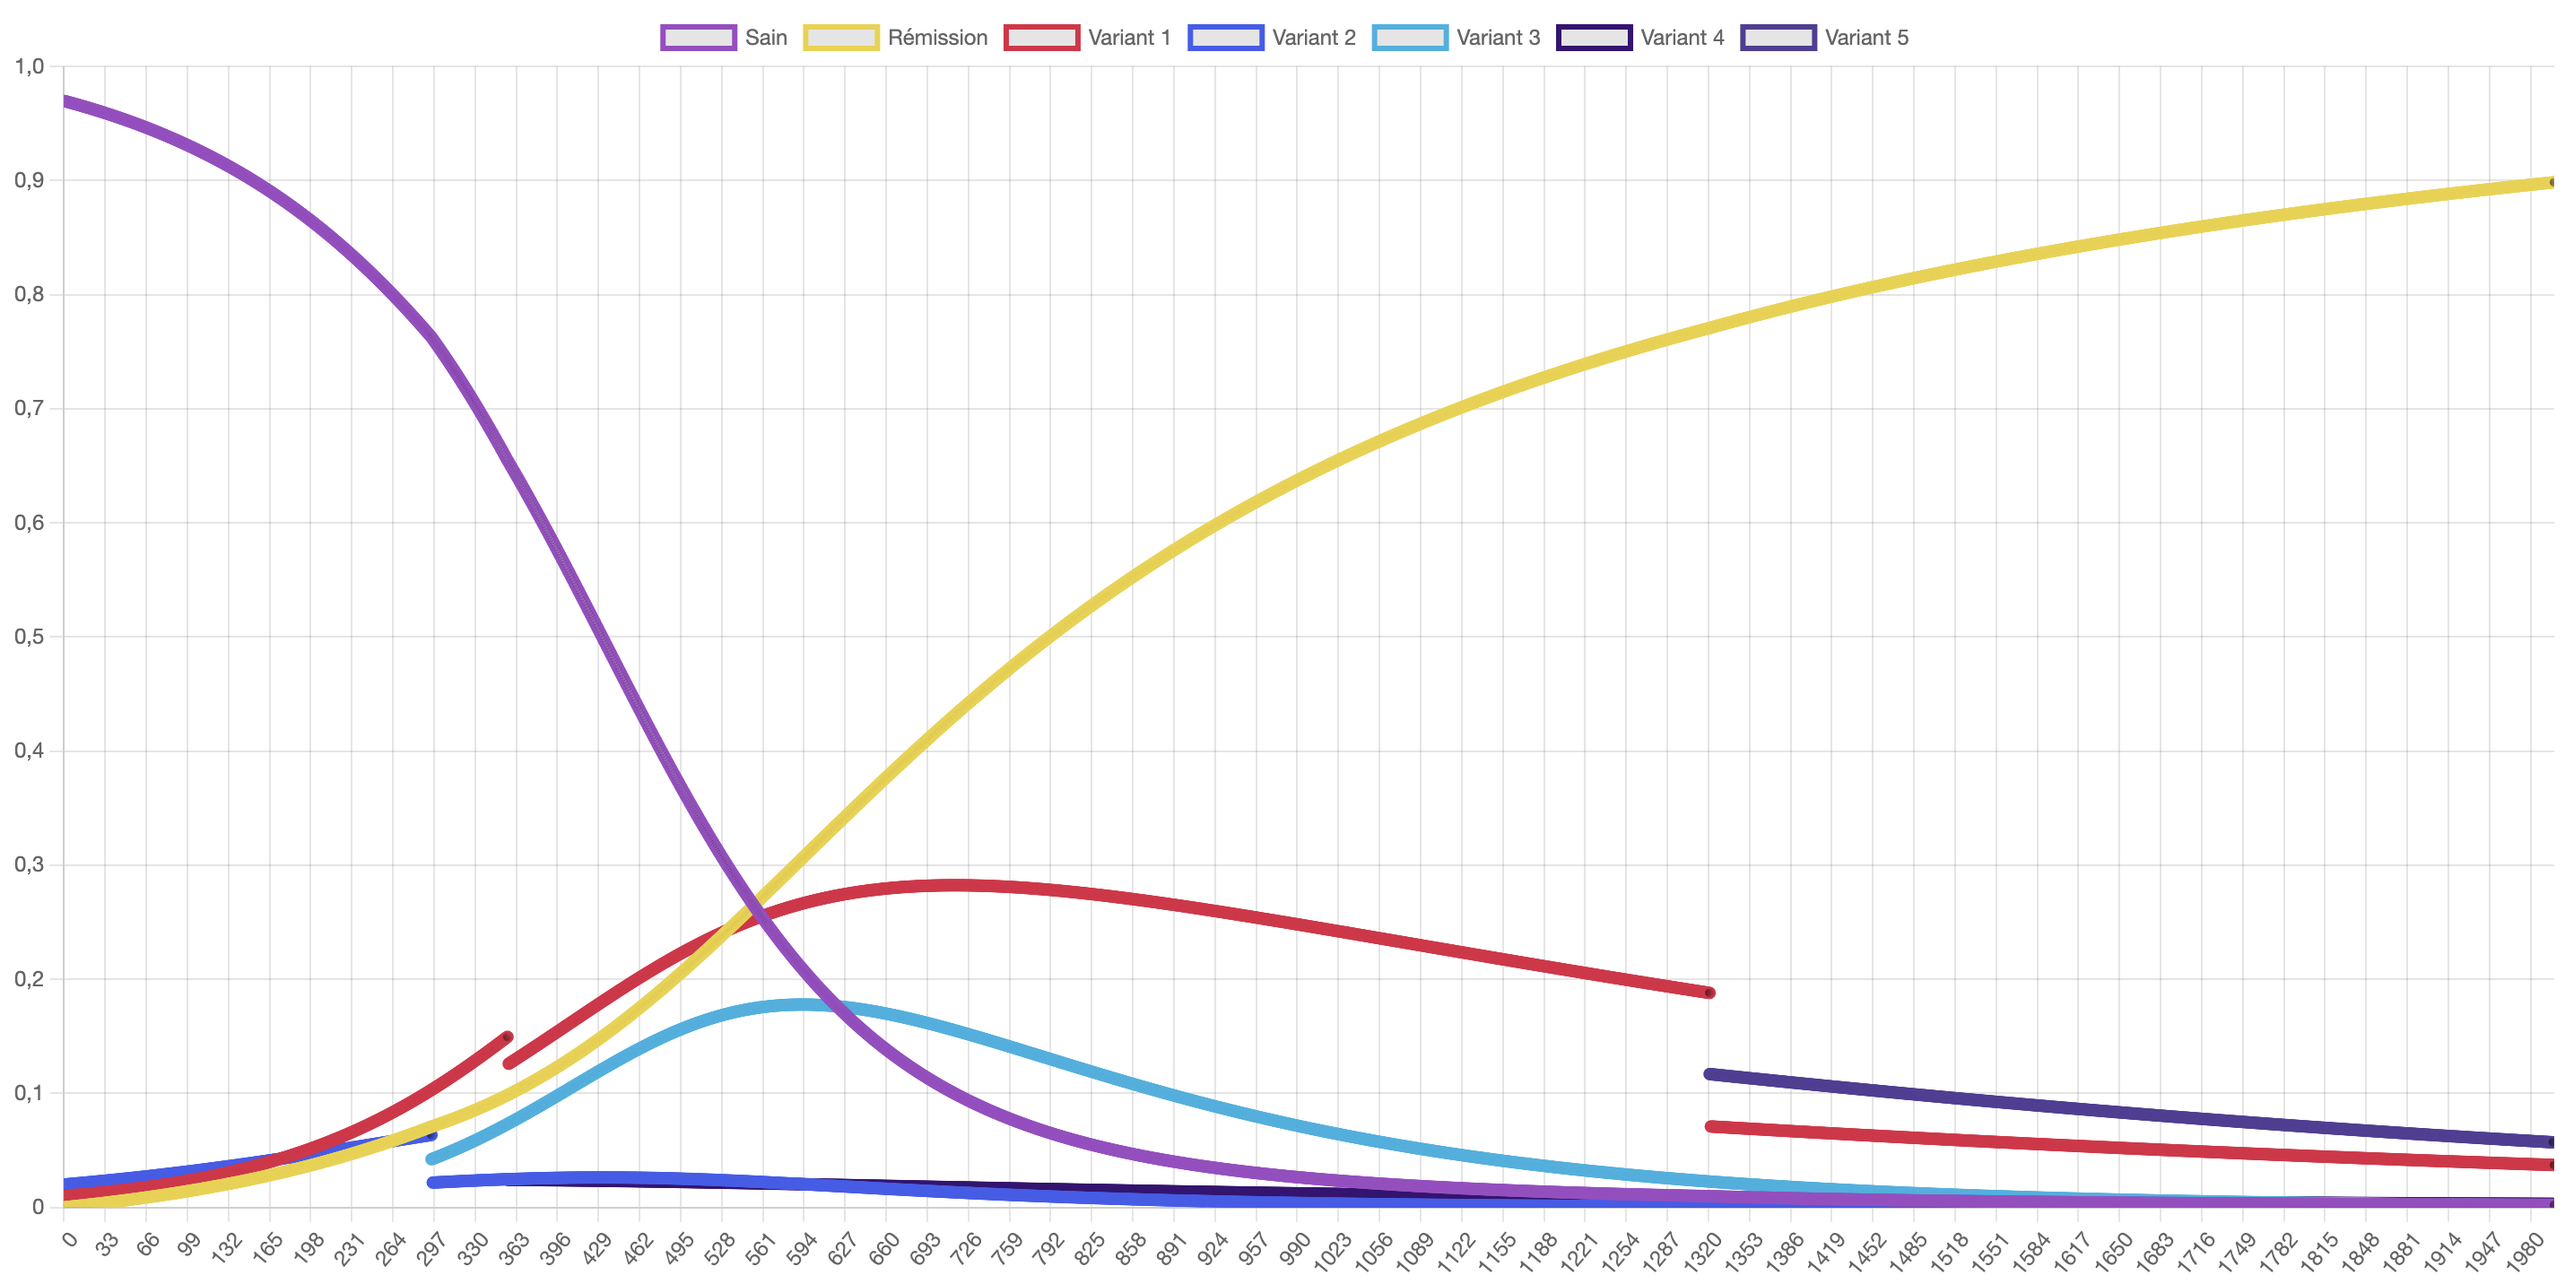
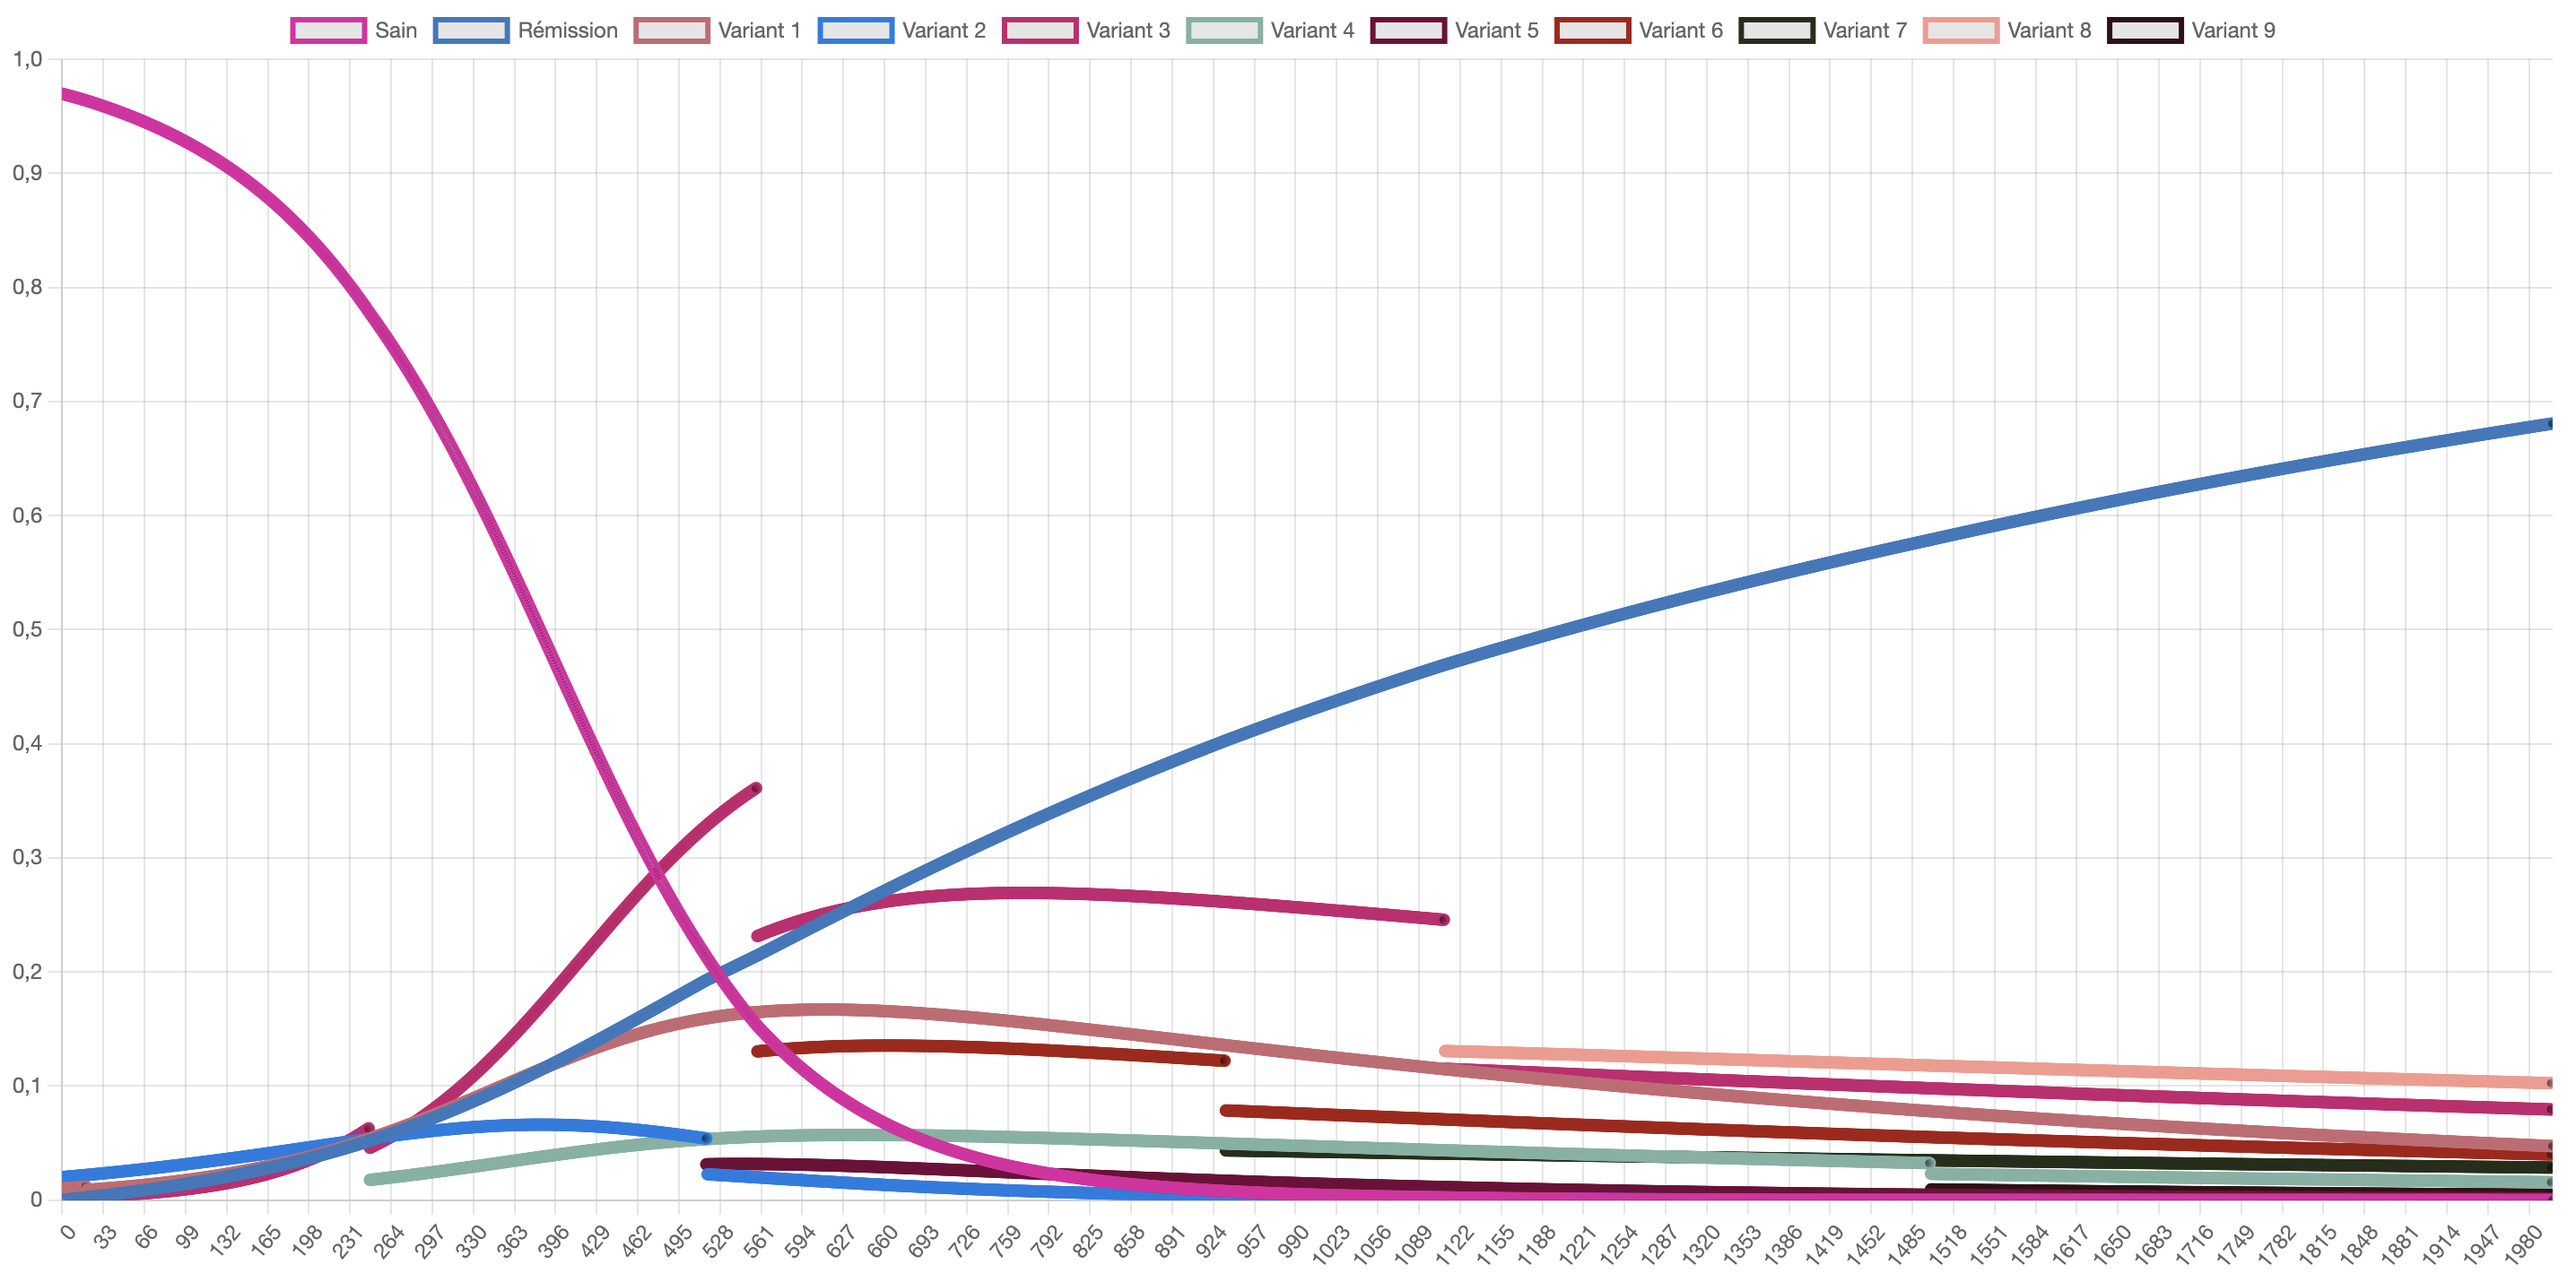
:sparkles: :memo: Scroll top on button click & work on lateX

diff --git a/www/index.html b/www/index.html
@@ -35,7 +35,7 @@
         <input type="number" id="infectedV1" name="infectedV1" min="0" max="1" step="0.1" />
         <label>Force de contagation du virus</label>
         <input type="number" id="alphaV1" name="alphaV1" min="0" max="1" step="0.01" />
-        <label>Virulence du virus</label>
+        <label>Virulence du virus (Proche de 0 -> forte virulence)</label>
         <input type="number" id="betaV1" name="betaV1" min="0" max="1" step="0.01" />
       </div>
       <div class="col">
@@ -44,7 +44,7 @@
         <input type="number" id="infectedV2" name="infectedV2" min="0" max="1" step="0.1" />
         <label>Force de contagation du virus</label>
         <input type="number" id="alphaV2" name="alphaV2" min="0" max="1" step="0.01" />
-        <label>Virulence du virus</label>
+        <label>Virulence du virus (Proche de 0 -> forte virulence)</label>
         <input type="number" id="betaV2" name="betaV2" min="0" max="1" step="0.01" />
       </div>
       <div class="buttonWrapper">

diff --git a/www/script.js b/www/script.js
@@ -275,4 +275,5 @@ lauchSimulation(data);
 document.getElementById("start").addEventListener("click", function () {
   let newestData = reinitialize(data);
   lauchSimulation(newestData);
+  window.scrollTo({top: 0, behavior: 'smooth'});
 });

diff --git a/rapport.tex b/rapport.tex
@@ -129,7 +129,7 @@ Sinon F(T) = \\
 \section{Simulations numériques}
 
 Dans cette partie, on va réaliser plusieurs simulations avec différents paramètres. Ces simulations sont produites avec un outil que l'on a développé et déployé en ligne, disponible à l'adresse suivante : https://modelisation.vercel.app/ \\
-Les paramètres sont les suivants : \\
+Les paramètres initiaux sont les suivants : \\
 \begin{enumerate}
     \item Taux de personnes saines -> 0,97
     \item Taux de personnes en rémission -> 0
@@ -140,15 +140,18 @@ Les paramètres sont les suivants : \\
 Pour le variant 1 : 
 \begin{enumerate}
     \item Taux de personnes infecté -> 0,01
-    \item Force de contagation du virus -> 0,01
-    \item Virulence du virus -> 0,001\\
+    \item Force de contagion du variant -> 0,01
+    \item Virulence du variant -> 0,001\\
 \end{enumerate}
 Pour le variant 2 : 
 \begin{enumerate}
     \item Taux de personnes infecté -> 0,02
-    \item Force de contagation du virus -> 0,01
-    \item Virulence du virus -> 0,005\\
+    \item Force de contagion du variant -> 0,01
+    \item Virulence du variant -> 0,005\\
 \end{enumerate}
+
+Dans la majorité des simulations, on fera varier un seul de ses paramètres afin d'identifier la cause réel du changement. \\ 
+Si on se permet de modifier plusieurs paramètres en même temps, on ne peut plus être sûr de ce qui cause un possible changement observé. \\
 
 \subsection{Simulation 1}
 
@@ -160,20 +163,97 @@ Pour le variant 2 :
 
 \noindent
 La simulation actuelle utilise les paramètres de base énoncé un peu plus haut. \\
-
+On remarque la création de 7 nouveaux variants : \\
 \begin{enumerate}
-    \item Variant 3 : Apparition au jour 297. Il est issu du variant 2. Il touche un taux plus important de la population comparé à son parent. Il survit plus longtemps et est plus contagieux.
-    \item Variant 4 : Apparition au jour 363. Il est issu du variant 1. Il ne survit pas.
-    \item Variant 5 : Apparition au jour 1320. Il est issu du variant 1. Il survit jusqu'à la fin de la simulation avec un taux de contagion supérieur aux autres variants. \\
+    \item Variant 3 : Apparition au jour 19. Il est issu du variant 1. Il devient très rapidement le variant principal et touche une grande partie de la population.
+    \item Variant 4 : Apparition au jour 247. Il est issu du variant 3. Il survit avec un faible taux d'infection.
+    \item Variant 5 : Apparition au jour 517. Il est issu du variant 2. Il survit avec un faible taux d'infection.
+    \item Variant 6 : Apparition au jour 558. Il est issu du variant 3. Il hérite des propriétés de son parent et infecte une partie relativement importante de la population.
+    \item Variant 7 : Apparition au jour 934. Il est issu du variant 6. Il survit avec un faible taux d'infection.
+    \item Variant 8 : Apparition au jour 1109. Il est issu du variant 3. Il sera le variant le plus fort à la fin de la simulation.
+    \item Variant 9 : Apparition au jour 1499. Il est issu du variant 4. Il ne survit pas.
 \end{enumerate}
 
+NB pour l'interprétation -> On remarque que quasiment tout les variants sont dérivés du variant 3 ou d'un de ses enfants. Explication ? Naissance avec des caractéristiques très dfférentes de son parent. \\
 
 \subsection{Simulation 2}
-...
+
+\begin{figure}[h]
+    \includegraphics[width=\linewidth]{images/Simulation2.png}
+    \caption{Simulation 2}
+    \label{fig:simulation2}
+\end{figure}
+
+Pour cette simulation, on a décidé de modifier le paramètre suivant : 
+\begin{enumerate}
+    \item Gamma pour la probabilité de mutation du virus -> 0,005 \\
+\end{enumerate}
+\noindent
+On remarque la création de 2 nouveaux variants : \\
+\begin{enumerate}
+    \item Variant 3 : Apparition au jour 1196. Il est issu du variant 1. Il sera le variant le plus fort à la fin de la simulation.
+    \item Variant 4 : Apparition au jour 1379. Il est issu du variant 1. Il ne touche qu'un très faible taux de la population dès le début. \\
+\end{enumerate}
+
+NB pour l'interprétation -> Très forte domination du variant 1 sur le variant 2 bien que le taux d'infecté soit > pour le variant 2 au début de la simulation. Les taux de contagions sont les mêmes mais il y a une différence dans les taux de virulence. \\
+Forte différence entre le variant 3 et le variant 4. \\ Le variant 3 est issu du variant 1, avec des critères similaires car il reste fort. \\ Le variant 4 semble avoir des caractéristiques très différentes de son parent. \\ 
+
 \subsection{Simulation 3}
-...
+
+\begin{figure}[h]
+    \includegraphics[width=\linewidth]{images/Simulation3.png}
+    \caption{Simulation 3}
+    \label{fig:simulation3}
+\end{figure}
+
+Pour cette simulation, on a décidé de modifier le paramètre suivant : 
+\begin{enumerate}
+    \item Force de contagion du variant 1 -> 0,05 \\
+\end{enumerate}
+\noindent
+On remarque la création de 4 nouveaux variants : \\
+\begin{enumerate}
+    \item Variant 3 : Apparition au jour 243. Il est issu du variant 1. 
+    \item Variant 4 : Apparition au jour 372. Il est issu du variant 1.
+    \item Variant 5 : Apparition au jour 406. Il est issu du variant 3.
+    \item Variant 6 : Apparition au jour 1448. Il est issu du variant 1. \\
+\end{enumerate}
+
+NB pour l'interprétation -> On remarque qu'avec un taux de contagion plus élevé, le variant 1 infecte quasiment toute la population... \\
+
 \subsection{Simulation 4}
-.......
+
+
+\begin{figure}[h]
+    \includegraphics[width=\linewidth]{images/Simulation4.png}
+    \caption{Simulation 4}
+    \label{fig:simulation4}
+\end{figure}
+
+Pour cette simulation, on a décidé de modifier le paramètre suivant : 
+\begin{enumerate}
+    \item Virulence du variant -> 0,0001 \\
+\end{enumerate}
+\noindent
+On remarque la création de 6 nouveaux variants : \\
+\begin{enumerate}
+    \item Variant 3 : Apparition au jour 278. Il est issu du variant 1. 
+    \item Variant 4 : Apparition au jour 647. Il est issu du variant 1.
+    \item Variant 5 : Apparition au jour 1145. Il est issu du variant 4.
+    \item Variant 6 : Apparition au jour 1202. Il est issu du variant 1. 
+    \item Variant 7 : Apparition au jour 1462. Il est issu du variant 4.
+    \item Variant 8 : Apparition au jour 1479. Il est issu du variant 1. \\
+\end{enumerate}
+
+NB pour l'interprétation -> On remarque qu'avec un taux de virulence plus faible, le variant 1 infecte une bonne partie de la population et le taux de rémission reste faible après 2000j. \\
+De plus le viriant 4, issu du variant 1, est plus fort que son parent à la fin de la simulation. \\
+Inexistance du variant 2.
+
+
+\subsection{Simulation 5}
+
+Simulation avec plusieurs paramètres pour ressortir un variant enfant qui dépasse son parent et le taux de rémission ?
+
 
 \section{Interprétation des résultats}
 
@@ -181,6 +261,8 @@ On remarque que les nouveaux variants entrainent une coupure dans les courbes de
 En effet, le taux de personnes infecté par un variant est issu du taux de personne infecté par le variant parent. \\
 
 L'effet de la durée de la simulation sur les variants (à la fin, est-ce qu'un variant domine ou alors est-ce que tout le monde est remis ?) \\
+
+Si pas de simulation faisant varier la virulence du variant -> parce que l'on ne peut pas tuer les gens. Donc la virulence n'est finalement pas super intéressante ?
 
 Sur un temps T défini, résultats :\\
 - apparition de nouveaux variants par mutations, nombre final de variants\\
@@ -198,6 +280,8 @@ Concernant les perspectives d'améliorations, nous pouvons envisager :
     \item La possibilité de se faire infecter par plusieurs variants en même temps. 
     \item La possibilité de se faire infecter une nouvelle fois après guérison d'un autre variant. 
     \item L'ajout d'une notion de vaccination, les personnes saines pourraient être vaccinées ou non ainsi que les personnes remises. 
+    \item Ajouter des détails au moment de la création d'un variant (notamment sur le fait de savoir s'il est né avec des paramètres très différents de son parent.).
+    \item Enfin, il manque une notion principale, le fait de pouvoir décéder du variant. Dans nos simulations, la population est soit saine, soit en rémission soit infecté mais elle ne peut pas être infecté puis décédée.
 \end{enumerate}
 
 \section{Référence}

diff --git a/index.py b/index.py
@@ -1,4 +1,4 @@
-# JOSS COUPET
+# Modélisation de la propagation d'un virus | Bouzakri, Coupet, Marchetti, Vasseur
 import matplotlib.pyplot as plt
 import random
 from math import exp
@@ -75,14 +75,6 @@ while (t < T):
     
     t = t + deltaT
 
-
-    # index += 1
-
-    # Stemp, Ctemp, Rtemp = S, C, R
-    # S = Stemp - alpha * deltaT * Stemp * Ctemp
-    # C = Ctemp + alpha * deltaT * Stemp * Ctemp - beta * deltaT * Ctemp
-    # R = Rtemp + beta * deltaT * Ctemp
-
 plt.plot(listR, "b", label="Remission")
 plt.plot(listS, "r", label="Sain")
 for i in range(len(variants)):
@@ -92,23 +84,5 @@ ax = plt.gca()
 ax.set_ylim([0, 1])
 plt.legend()
 plt.show()
-
-
-
-"""
-COVID
-
-- Modélisation
-- Implémentation numérique
-- Interprétation des résultats + rapport 
-
-.S(t) = (s(T + deltaT) - S(t)) / deltaT
-"""
-
-
-
-
-
-
 
 
